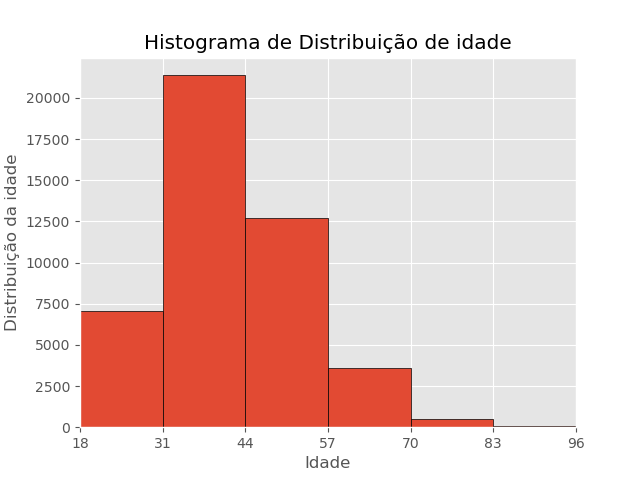
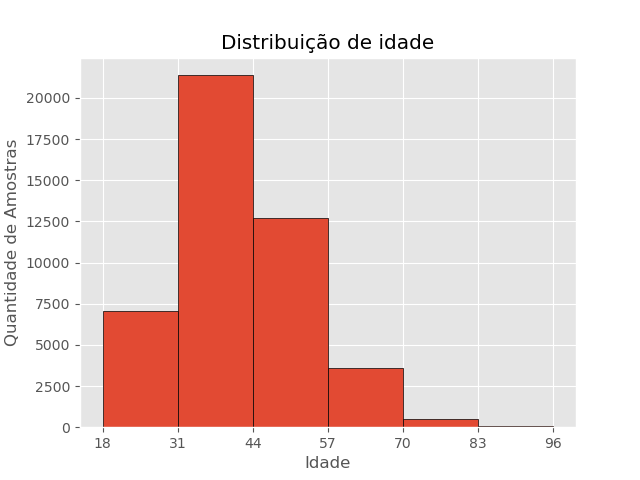
DataFreq Updates

diff --git a/1-Preprocessing/DataFreqMarital.py b/1-Preprocessing/DataFreqMarital.py
@@ -1,0 +1,84 @@
+from math import ceil
+from tracemalloc import stop
+import pandas as pd
+import numpy as np
+import matplotlib.pyplot as plt
+from names import names, features
+plt.style.use('ggplot')
+
+def main():
+    input_file = '0-Datasets/BankConvert.csv'
+    df = pd.read_csv(input_file, names = names)                    
+
+    ############################################################ Distribuição de Frequencia Marital ##############################################################################
+    #Atributo marital 
+    df_marital = (df['marital'])
+    array_marital = df_marital.tolist()
+    #print(array_marital)
+    print(df_marital)
+    
+    #Job Mínima e Máxima 
+    marital_min = int(df.min()[['marital']])
+    print(marital_min)
+    marital_max = int(df.max()[['marital']])
+    print(marital_max)
+
+    #Definir o número de classess
+    number_classes =  3
+
+    #Calcular a amplitude de classe
+    range = ceil((marital_max - marital_min)/number_classes)
+    print ("range de teste", range)
+
+    #Definir os limites inferiores e superiores das classes
+    frequencias = []
+    valor = marital_min
+    while valor < marital_max:
+        frequencias.append('{} - {}'.format(round(valor,1),round(valor+range,1)))
+        valor += range
+
+    print('frequencias', frequencias)
+
+    #Rotular os valores dos atributos de acordo com sua classe
+    freq_abs = pd.cut(df_marital, bins=[0,1,2]) # Discretização dos valores em k faixas, rotuladas pela lista criada anteriormente
+    print("teste frenquencia abs", freq_abs)
+
+    #quantidade de atributos idade que tem em cada classe
+    qtd_atr = pd.value_counts(freq_abs) 
+    print('Quantidade de atributos em cada classe\n', qtd_atr)
+
+    #Histograma do atributo idade
+    bin = []
+    for number in frequencias:
+        bin.append(int(number[0:1]))
+
+    last_range = frequencias.pop()
+
+    #bin.append(int(last_range[5:7]))
+
+    label = ['Casado(a)','Solteiro(a)','Divorciado(a)']
+    #cores = ['r','b','g']
+    emp0 = df['marital'].value_counts()[0]
+    emp1 = df['marital'].value_counts()[1]
+    emp2 = df['marital'].value_counts()[2]
+    total = emp0 + emp1 + emp2
+    y = np.array([emp0,emp1,emp2])
+    plt.pie(y, labels=label, autopct= lambda x: '{:.0f}'.format(x*y.sum()/100, startangle=90))
+    plt.title("Distribuição de Estado Civil")
+    plt.savefig('0-Datasets/DataFreqMarital.png', format='png')
+    plt.show() 
+    print("Total: {}\n".format(total) )
+    print("Casado(a): {:.2f}%\n".format((emp0*100)/total))
+    print("Solteiro(a): {:.2f}%\n".format((emp1*100)/total))
+    print("Divorciado(a) ou Viúvo(a): {:.2f}%\n".format((emp2*100)/total))
+    
+
+def ShowInformationDataFrame(df, message=""):
+    print(message+"\n")
+    print(df.info())
+    print(df.describe())
+    print(df.head(10))
+    print("\n")
+    
+if __name__ == "__main__":
+    main()

diff --git a/1-Preprocessing/DataFreqBalance.py b/1-Preprocessing/DataFreqBalance.py
@@ -18,9 +18,9 @@ def main():
     print(df_balance)
     
     #Idade Mínima e Máxima 
-    balance_min = float(df.min()[['balance']])
+    balance_min = int(df.min()[['balance']])
     print(balance_min)
-    balance_max = float(df.max()[['balance']])
+    balance_max = int(df.max()[['balance']])
     print(balance_max)
 
     #Definir o número de classess
@@ -40,7 +40,7 @@ def main():
     print('frequencias', frequencias)
 
     #Rotular os valores dos atributos de acordo com sua classe
-    freq_abs = pd.cut(df_balance, bins=[-8019,10339,28697,47055,65413,83771]) # Discretização dos valores em k faixas, rotuladas pela lista criada anteriormente
+    freq_abs = pd.cut(df_balance, bins=[-8019, 10339, 28697, 47055, 65413, 83771]) # Discretização dos valores em k faixas, rotuladas pela lista criada anteriormente
     print("teste frenquencia abs", freq_abs)
 
     #quantidade de atributos idade que tem em cada classe
@@ -54,15 +54,15 @@ def main():
 
     last_range = frequencias.pop()
 
-    bin.append(int(last_range[5:7]))
+    #bin.append(int(last_range[5:7]))
  
-    plt.xlabel("Idade")
-    plt.ylabel("Distribuição da saldo")
-    plt.title("Histograma de Distribuição de saldo")
+    plt.xlabel("Quantidade de Amostras")
+    plt.ylabel("Distribuição de Saldo")
+    plt.title("Saldo")
     plt.xlim(35, 89)
     plt.xticks(bin)
     plt.hist(array_balance, bins=bin, edgecolor='black')
-    #plt.savefig('../0-Datasets/histogram.png', format='png')
+    #plt.savefig('0-Datasets/DataFreqBalance.png', format='png')
     plt.show()
     
 def ShowInformationDataFrame(df, message=""):

diff --git a/1-Preprocessing/DataFreqJob.py b/1-Preprocessing/DataFreqJob.py
@@ -71,7 +71,7 @@ def main():
     emp10 = df['job'].value_counts()[10]
     total = emp0 + emp1 + emp2 + emp3 + emp4 + emp5 + emp6 + emp7 + emp8 + emp9 + emp10
     y = np.array([emp0,emp1,emp2,emp3,emp4,emp5,emp6,emp7,emp8,emp9,emp10])
-    plt.pie(y , labels=label, autopct= lambda x: '{:.0f}'.format(x*y.sum()/100, startangle=90))
+    plt.pie(y, labels=label, autopct= lambda x: '{:.0f}'.format(x*y.sum()/100, startangle=90))
     plt.title("Gráfico de Distribuição de Empregos")
     plt.savefig('0-Datasets/DataFreqJob.png', format='png')
     plt.show() 

diff --git a/1-Preprocessing/DataFreqAge.py b/1-Preprocessing/DataFreqAge.py
@@ -57,9 +57,9 @@ def main():
     bin.append(int(last_range[5:7]))
  
     plt.xlabel("Idade")
-    plt.ylabel("Distribuição da idade")
-    plt.title("Histograma de Distribuição de idade")
-    plt.xlim(35, 89)
+    plt.ylabel("Quantidade de Amostras")
+    plt.title("Distribuição de idade")
+    #plt.xlim(35, 89)
     plt.xticks(bin)
     plt.hist(array_age, bins=bin, edgecolor='black')
     plt.savefig('0-Datasets/DataFreqAge.png', format='png')
